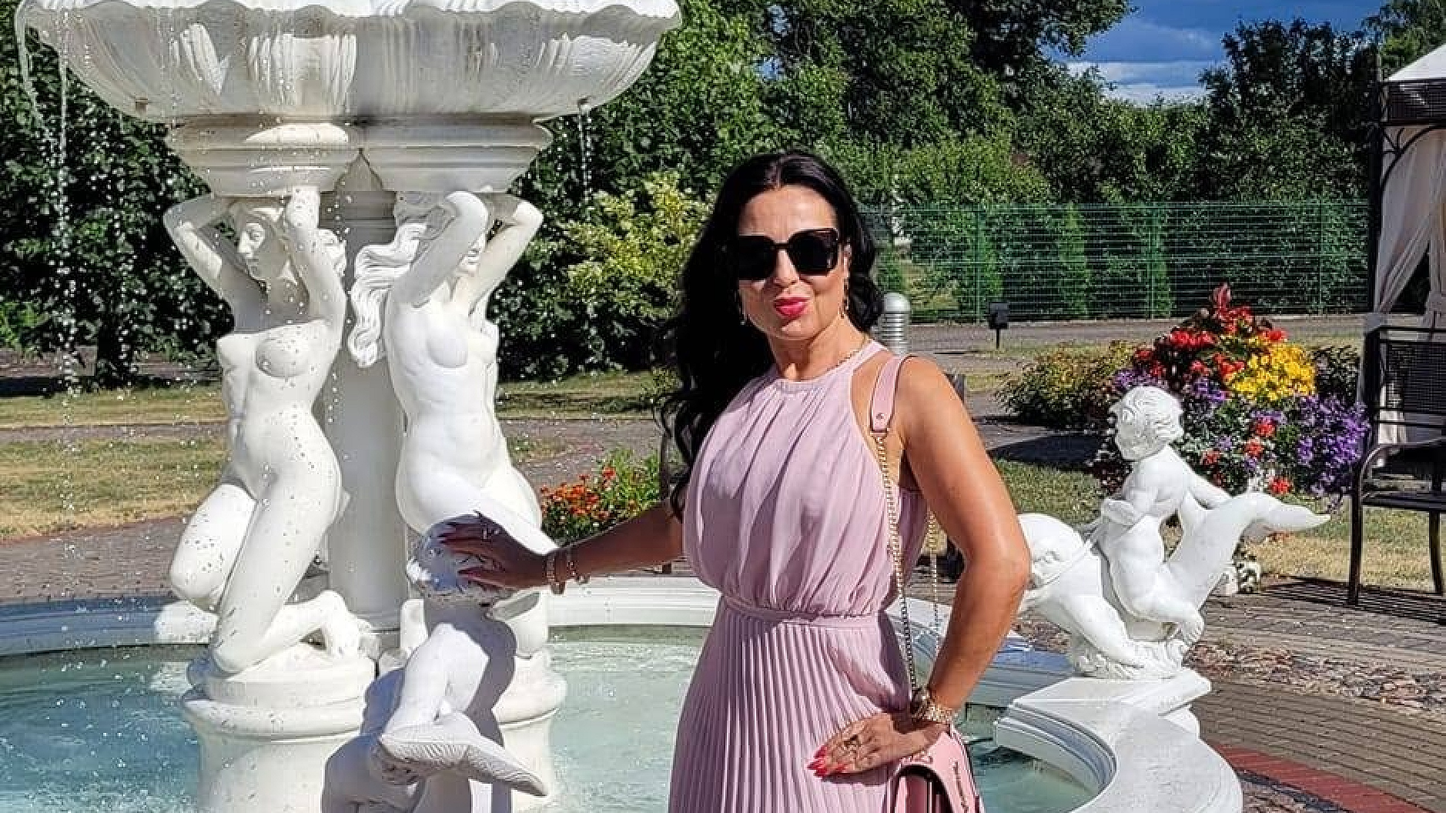
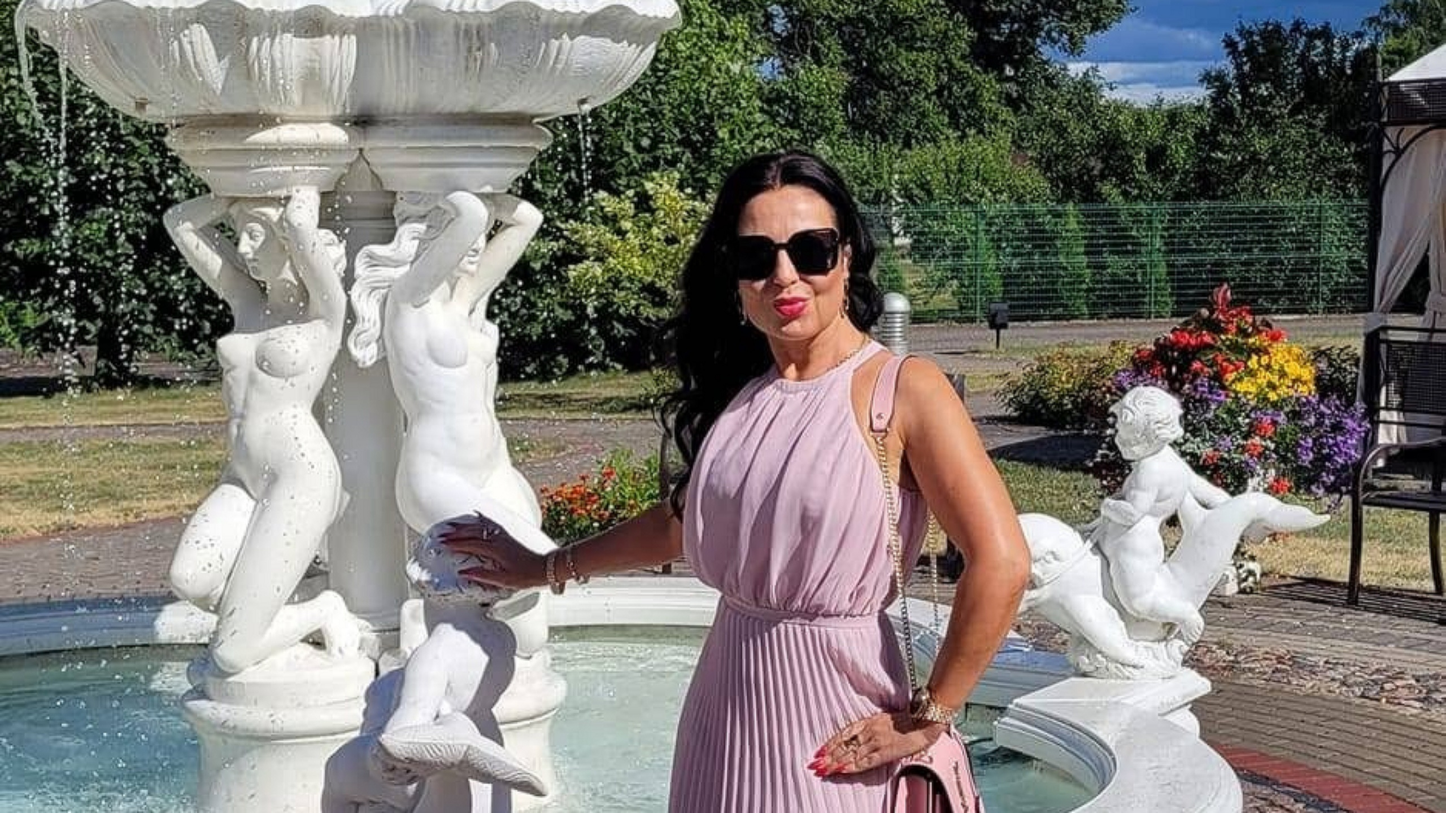
Made changes to photos next to welcome text

diff --git a/resources/css/app.css b/resources/css/app.css
@@ -254,25 +254,22 @@ html.theme-light,
 
 /* Hero Section: Seamless perimeter blending, fog-free crystal-clear center */
 .hero-photos-container {
-  -webkit-mask-image: linear-gradient(to right, transparent 0%, black 5%, black 98%, transparent 100%);
-  mask-image: linear-gradient(to right, transparent 0%, black 5%, black 98%, transparent 100%);
+  /* Clean native rasterization with zero off-screen buffer downsampling */
+  -webkit-mask-image: none !important;
+  mask-image: none !important;
 }
 
-/* Hero Images: High-Definition Ultra-Sharp Rendering */
+/* Hero Images: High-Fidelity Sharp Rendering with Zero Pixelation */
 .hero-photos-container img,
 .hero-sharp-img {
-  image-rendering: -webkit-optimize-contrast;
-  image-rendering: crisp-edges;
-  filter: contrast(1.08) brightness(1.02) saturate(1.06);
-  transform: translateZ(0);
-  -webkit-transform: translateZ(0);
-  backface-visibility: hidden;
-  -webkit-backface-visibility: hidden;
+  image-rendering: auto !important;
+  filter: none !important;
 }
 
 .theme-light .hero-photos-container img,
 .theme-light .hero-sharp-img {
-  filter: contrast(1.10) brightness(1.04) saturate(1.08) !important;
+  image-rendering: auto !important;
+  filter: none !important;
 }
 
 .hero-bg-base {
@@ -342,10 +339,14 @@ html.theme-light,
   background: linear-gradient(
     to right,
     #f8fafc 0%,
-    #f8fafc 18%,
-    rgba(248, 250, 252, 0.8) 25%,
-    rgba(248, 250, 252, 0.3) 32%,
-    transparent 40%
+    #f8fafc 26%,
+    rgba(248, 250, 252, 0.98) 30%,
+    rgba(248, 250, 252, 0.88) 36%,
+    rgba(248, 250, 252, 0.68) 42%,
+    rgba(248, 250, 252, 0.42) 48%,
+    rgba(248, 250, 252, 0.18) 54%,
+    rgba(248, 250, 252, 0.05) 58%,
+    transparent 62%
   ) !important;
 }
 @media (max-width: 1023px) {

diff --git a/resources/js/index.css b/resources/js/index.css
@@ -254,25 +254,22 @@ html.theme-light,
 
 /* Hero Section: Seamless perimeter blending, fog-free crystal-clear center */
 .hero-photos-container {
-  -webkit-mask-image: linear-gradient(to right, transparent 0%, black 5%, black 98%, transparent 100%);
-  mask-image: linear-gradient(to right, transparent 0%, black 5%, black 98%, transparent 100%);
+  /* Clean native rasterization with zero off-screen buffer downsampling */
+  -webkit-mask-image: none !important;
+  mask-image: none !important;
 }
 
-/* Hero Images: High-Definition Ultra-Sharp Rendering */
+/* Hero Images: High-Fidelity Sharp Rendering with Zero Pixelation */
 .hero-photos-container img,
 .hero-sharp-img {
-  image-rendering: -webkit-optimize-contrast;
-  image-rendering: crisp-edges;
-  filter: contrast(1.08) brightness(1.02) saturate(1.06);
-  transform: translateZ(0);
-  -webkit-transform: translateZ(0);
-  backface-visibility: hidden;
-  -webkit-backface-visibility: hidden;
+  image-rendering: auto !important;
+  filter: none !important;
 }
 
 .theme-light .hero-photos-container img,
 .theme-light .hero-sharp-img {
-  filter: contrast(1.10) brightness(1.04) saturate(1.08) !important;
+  image-rendering: auto !important;
+  filter: none !important;
 }
 
 .hero-bg-base {
@@ -342,10 +339,14 @@ html.theme-light,
   background: linear-gradient(
     to right,
     #f8fafc 0%,
-    #f8fafc 18%,
-    rgba(248, 250, 252, 0.8) 25%,
-    rgba(248, 250, 252, 0.3) 32%,
-    transparent 40%
+    #f8fafc 26%,
+    rgba(248, 250, 252, 0.98) 30%,
+    rgba(248, 250, 252, 0.88) 36%,
+    rgba(248, 250, 252, 0.68) 42%,
+    rgba(248, 250, 252, 0.42) 48%,
+    rgba(248, 250, 252, 0.18) 54%,
+    rgba(248, 250, 252, 0.05) 58%,
+    transparent 62%
   ) !important;
 }
 @media (max-width: 1023px) {

diff --git a/resources/js/components/Hero.jsx b/resources/js/components/Hero.jsx
@@ -81,7 +81,7 @@ export default function Hero({ onOpenCompetitions }) {
                     loading={index === 0 ? "eager" : "lazy"}
                     fetchPriority={index === 0 ? "high" : "auto"}
                     decoding="async"
-                    className={`w-full h-full object-cover transition-transform duration-700 ease-out hero-sharp-img ${slide.position || 'object-center'}`}
+                    className={`w-full h-full object-cover hero-sharp-img ${slide.position || 'object-center'}`}
                   />
                 </picture>
               </div>
